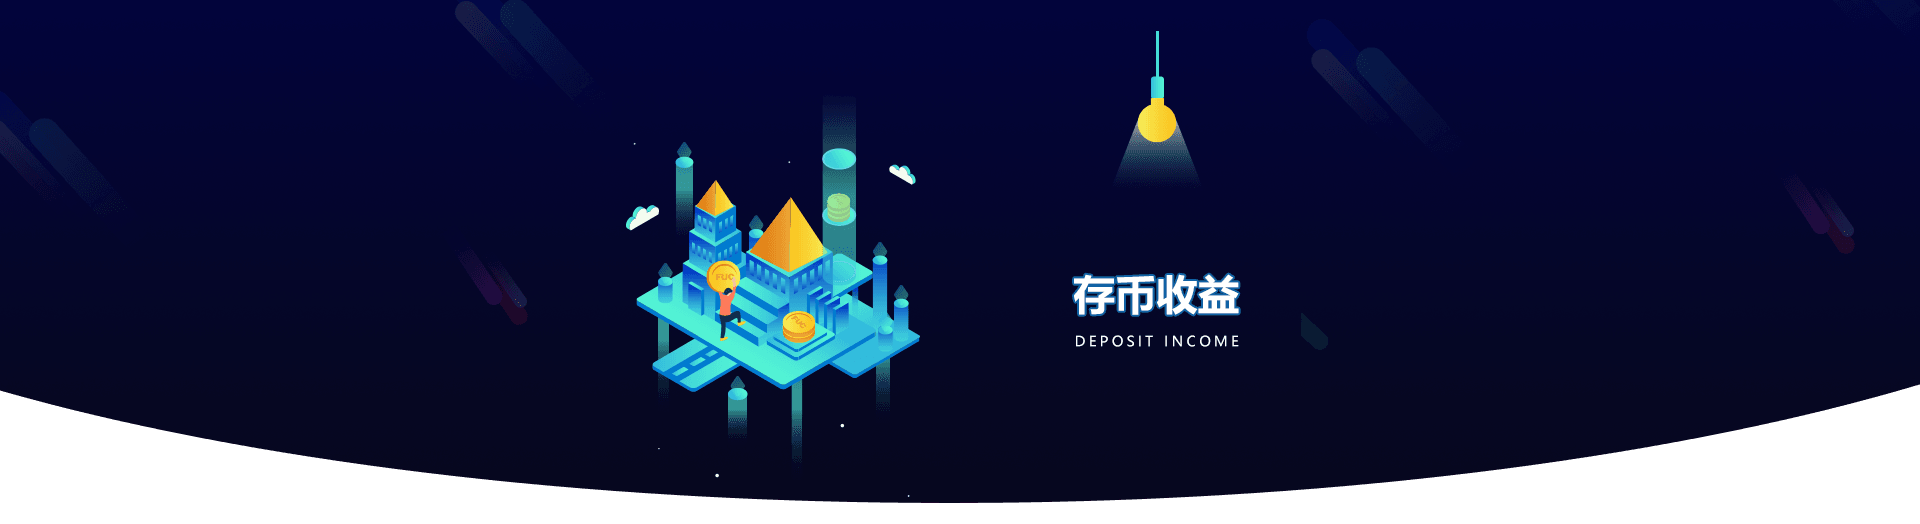
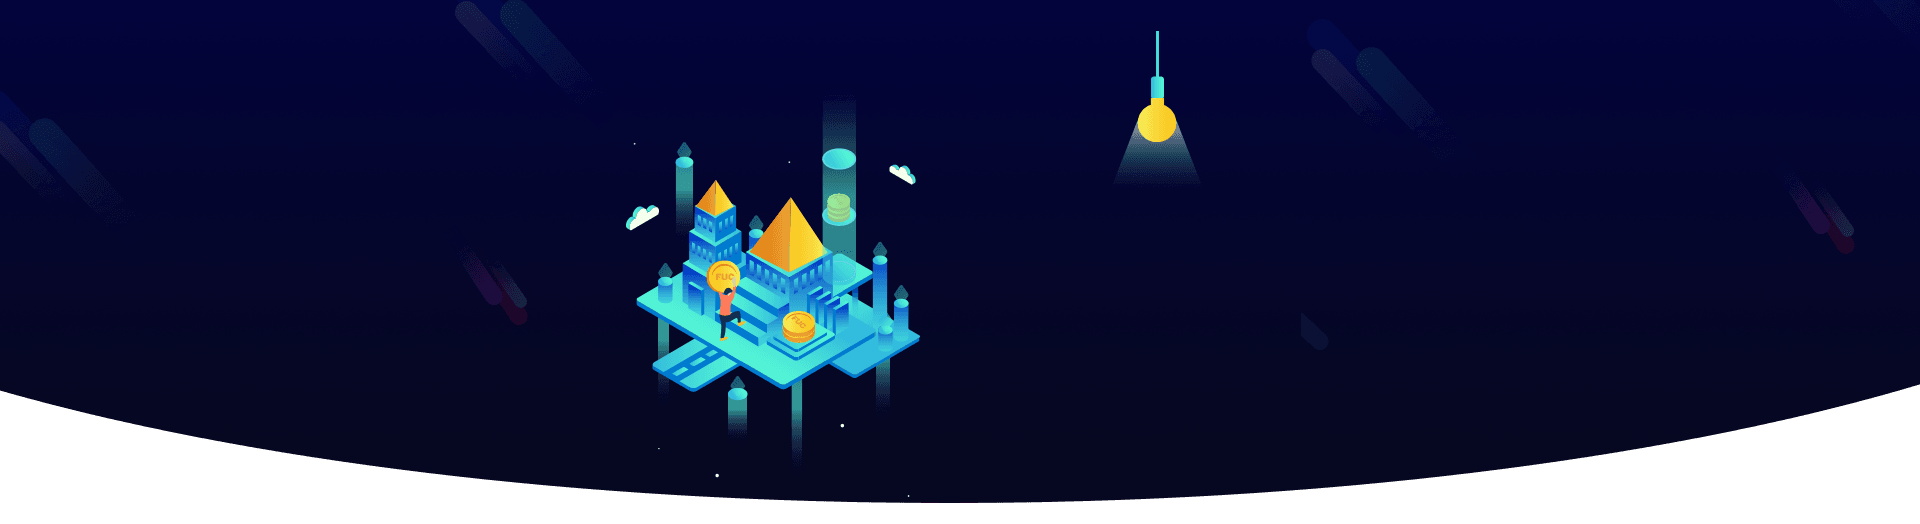
ren-vip和存币收益banner图字分离并国际化

Changed region(s): [[0.5312, 0.5191, 0.6562, 0.6107], [0.5625, 0.6412, 0.6562, 0.6718]]

diff --git a/src/components/InvestmentFinance/FinanceCenter.vue b/src/components/InvestmentFinance/FinanceCenter.vue
@@ -6,6 +6,10 @@
     <!-- 1.0 banner -->
     <div class="banner-box">
       <img src="../../assets/finance/banner.png">
+      <div class="banner-title">
+        <!-- 存币收益 -->
+        {{$t('M.comm_finance_center')}}
+      </div>
     </div>
     <div
       class="inner-box"
@@ -950,9 +954,19 @@ export default {
       >.banner-box{
         height: 459px;
         // background: #272b41;
+        position: relative;
         >img{
           width: 100%;
           height: 100%;
+        }
+        >.banner-title{
+          position: absolute;
+          left: 50%;
+          top: 50%;
+          color: #fff;
+          font-size: 40px;
+          width: 400px;
+          text-align: center;
         }
       }
       >.inner-box{

diff --git a/src/pages/VipMainContent.vue b/src/pages/VipMainContent.vue
@@ -11,7 +11,8 @@
         :src="vipPictureBanner"
       >
       <div class="title">
-        一键开通VIP享受优惠特权
+        <!-- 一键开通VIP享受优惠特权 -->
+        {{$t('M.user_vip_one_key_open')}}
       </div>
     </div>
     <div
@@ -947,7 +948,7 @@ export default {
       >.title{
         color:#fff;
         position: absolute;
-        left:50%;
+        left:47%;
         top:30%;
         transform: translate(-50%, -50%);
         font-size: 48px;

diff --git a/static/lang/common/ko_KR.js b/static/lang/common/ko_KR.js
@@ -5,7 +5,8 @@ export const common = {
   'comm_all-plate': '전부',
   'comm_trade_center': '코인-코인 거래',
   'comm_otc_center': 'OTC거래',
-  'comm_finance_center': '코인 저금 수익',
+  // 'comm_finance_center': '코인 저금 수익',
+  'comm_finance_center': '머니 머니 수익',
   'comm_activity_center': '활동센터',
   'comm_convert_currency': '통화 변환',
   'comm_set': '설정',

diff --git a/static/lang/personal/ko_KR.js b/static/lang/personal/ko_KR.js
@@ -255,6 +255,7 @@ export const personal = {
   // 冻结中的订单
   // 委托订单
   // VIP
+  'user_vip_one_key_open': '버튼을 누르면 VIP 가 우대 특권을 누 릴 수 있다',
   'user_vip_please_choose': '회원 정보 오픈에 가입하십시오',
   'user_vip_discount': '할인',
   'user_vip_immediately_opened': '즉시 가입',

diff --git a/static/lang/personal/ja_JP.js b/static/lang/personal/ja_JP.js
@@ -250,6 +250,7 @@ export const personal = {
   // 冷凍注文
   // 委託注文
   // VIP
+  'user_vip_one_key_open': 'vipを通じた特典サービス',
   'user_vip_please_choose': 'メンバー情報を開くように選択してください',
   'user_vip_discount': '割引',
   'user_vip_immediately_opened': 'すぐに開く',

diff --git a/static/lang/personal/en_US.js b/static/lang/personal/en_US.js
@@ -250,6 +250,7 @@ export const personal = {
   // 冻结中的订单Frozen order
   // 委托订单Order order
   // VIPVIP
+  'user_vip_one_key_open': 'Open VIP discount',
   'user_vip_please_choose': 'Please choose to open member information',
   'user_vip_discount': 'discount',
   'user_vip_immediately_opened': 'Open Now',

diff --git a/static/lang/personal/zh_CN.js b/static/lang/personal/zh_CN.js
@@ -255,6 +255,7 @@ export const personal = {
   // 冻结中的订单
   // 委托订单
   // VIP
+  'user_vip_one_key_open': '一键开通VIP享受优惠特权',
   'user_vip_please_choose': '请选择开通会员信息',
   'user_vip_discount': '折扣',
   'user_vip_immediately_opened': '立即开通',

diff --git a/static/lang/personal/zh_TW.js b/static/lang/personal/zh_TW.js
@@ -255,6 +255,7 @@ export const personal = {
   // 凍結中的訂單
   // 委托訂單
   // VIP
+  'user_vip_one_key_open': '壹鍵開通VIP享受優惠特權',
   'user_vip_please_choose': '請選擇開通會員信息',
   'user_vip_discount': '折扣',
   'user_vip_immediately_opened': '立即開通',
